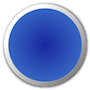
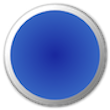
Bigger Pictures, better backgrounds

diff --git a/GUI/QuickPrint.py b/GUI/QuickPrint.py
@@ -4,24 +4,22 @@ import AppSettings
 class QuickPrint(wx.Panel):
     def __init__(self, parent, id=-1, pos=(0,40), size=wx.Size(800,440)):
         wx.Panel.__init__(self, parent, id, pos, size)
-        if self.GetParent():
-            self.SetBackgroundColour(self.GetParent().GetBackgroundColour())
+        self.SetBackgroundColour(AppSettings.secondBackground)
         self.Show(False)
         sizer=wx.StaticBoxSizer(wx.StaticBox(self, -1, "Choose a file", size=(240, 170)),wx.VERTICAL)
 
         sizer.Add(wx.FilePickerCtrl(self, -1, AppSettings.userFilePath,"Choose a file:",pos=(20,20), size=(350,-1)))
         temp=wx.Panel(self,size=(40,40))
         if self.GetParent():
-            temp.SetBackgroundColour(self.GetParent().GetBackgroundColour())
+            temp.SetBackgroundColour(self.GetBackgroundColour())
         sizer.Add(temp)
         sizer2=wx.BoxSizer()
         sizer2.Add(wx.Button(self, label="Cancel", pos=(20,100)))
         temp=wx.Panel(self,size=(40,40))
         if self.GetParent():
-            temp.SetBackgroundColour(self.GetParent().GetBackgroundColour())
+            temp.SetBackgroundColour(self.GetBackgroundColour())
         sizer2.Add(temp)
         sizer2.Add(wx.Button(self, label="Print",pos=(120,100)))
         sizer.Add(sizer2)
 
         self.SetSizer(sizer)
-        self.SetBackgroundColour(AppSettings.secondBackground)

diff --git a/GUI/BubbleMenu.py b/GUI/BubbleMenu.py
@@ -89,6 +89,7 @@ class BubbleButton(wx.PyControl):
         self.style=wx.BORDER_NONE
         if normal != None:
             self.normal = normal
+            self.pressed = pressed
         else:
             self.normal=wx.Bitmap(AppSettings.IMAGE_PATH+"BubbleButtonTemplate.png")
             if pressed != None:
